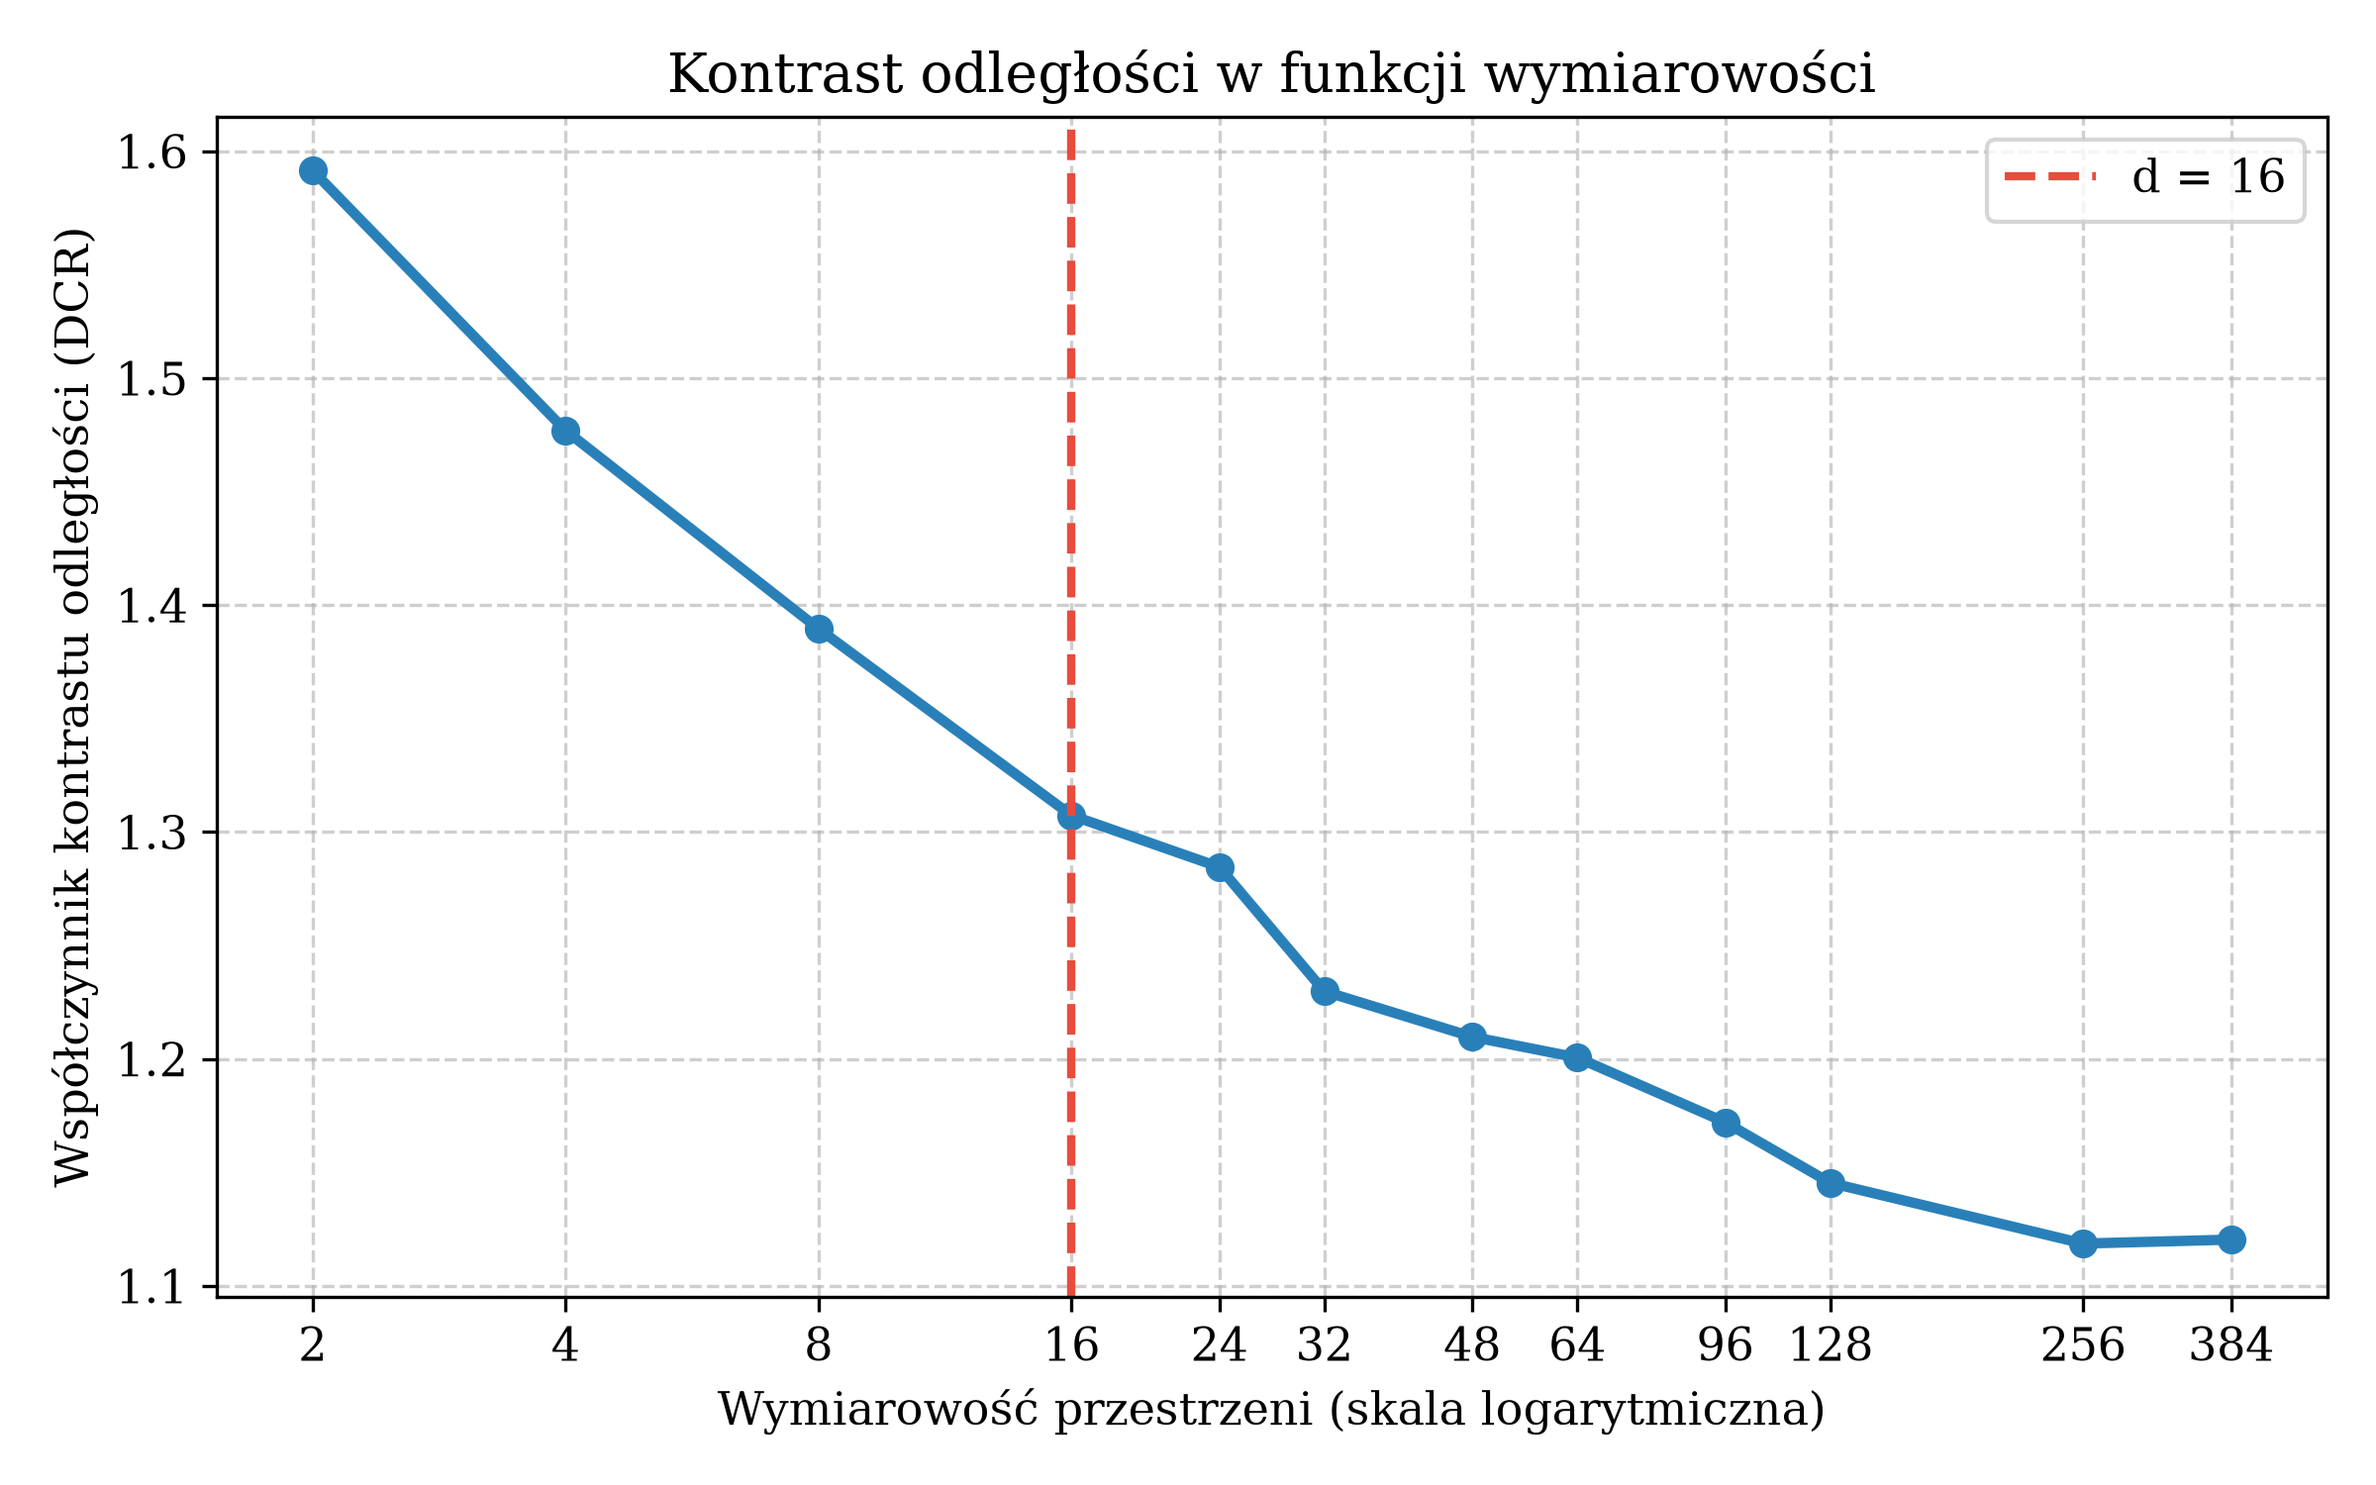
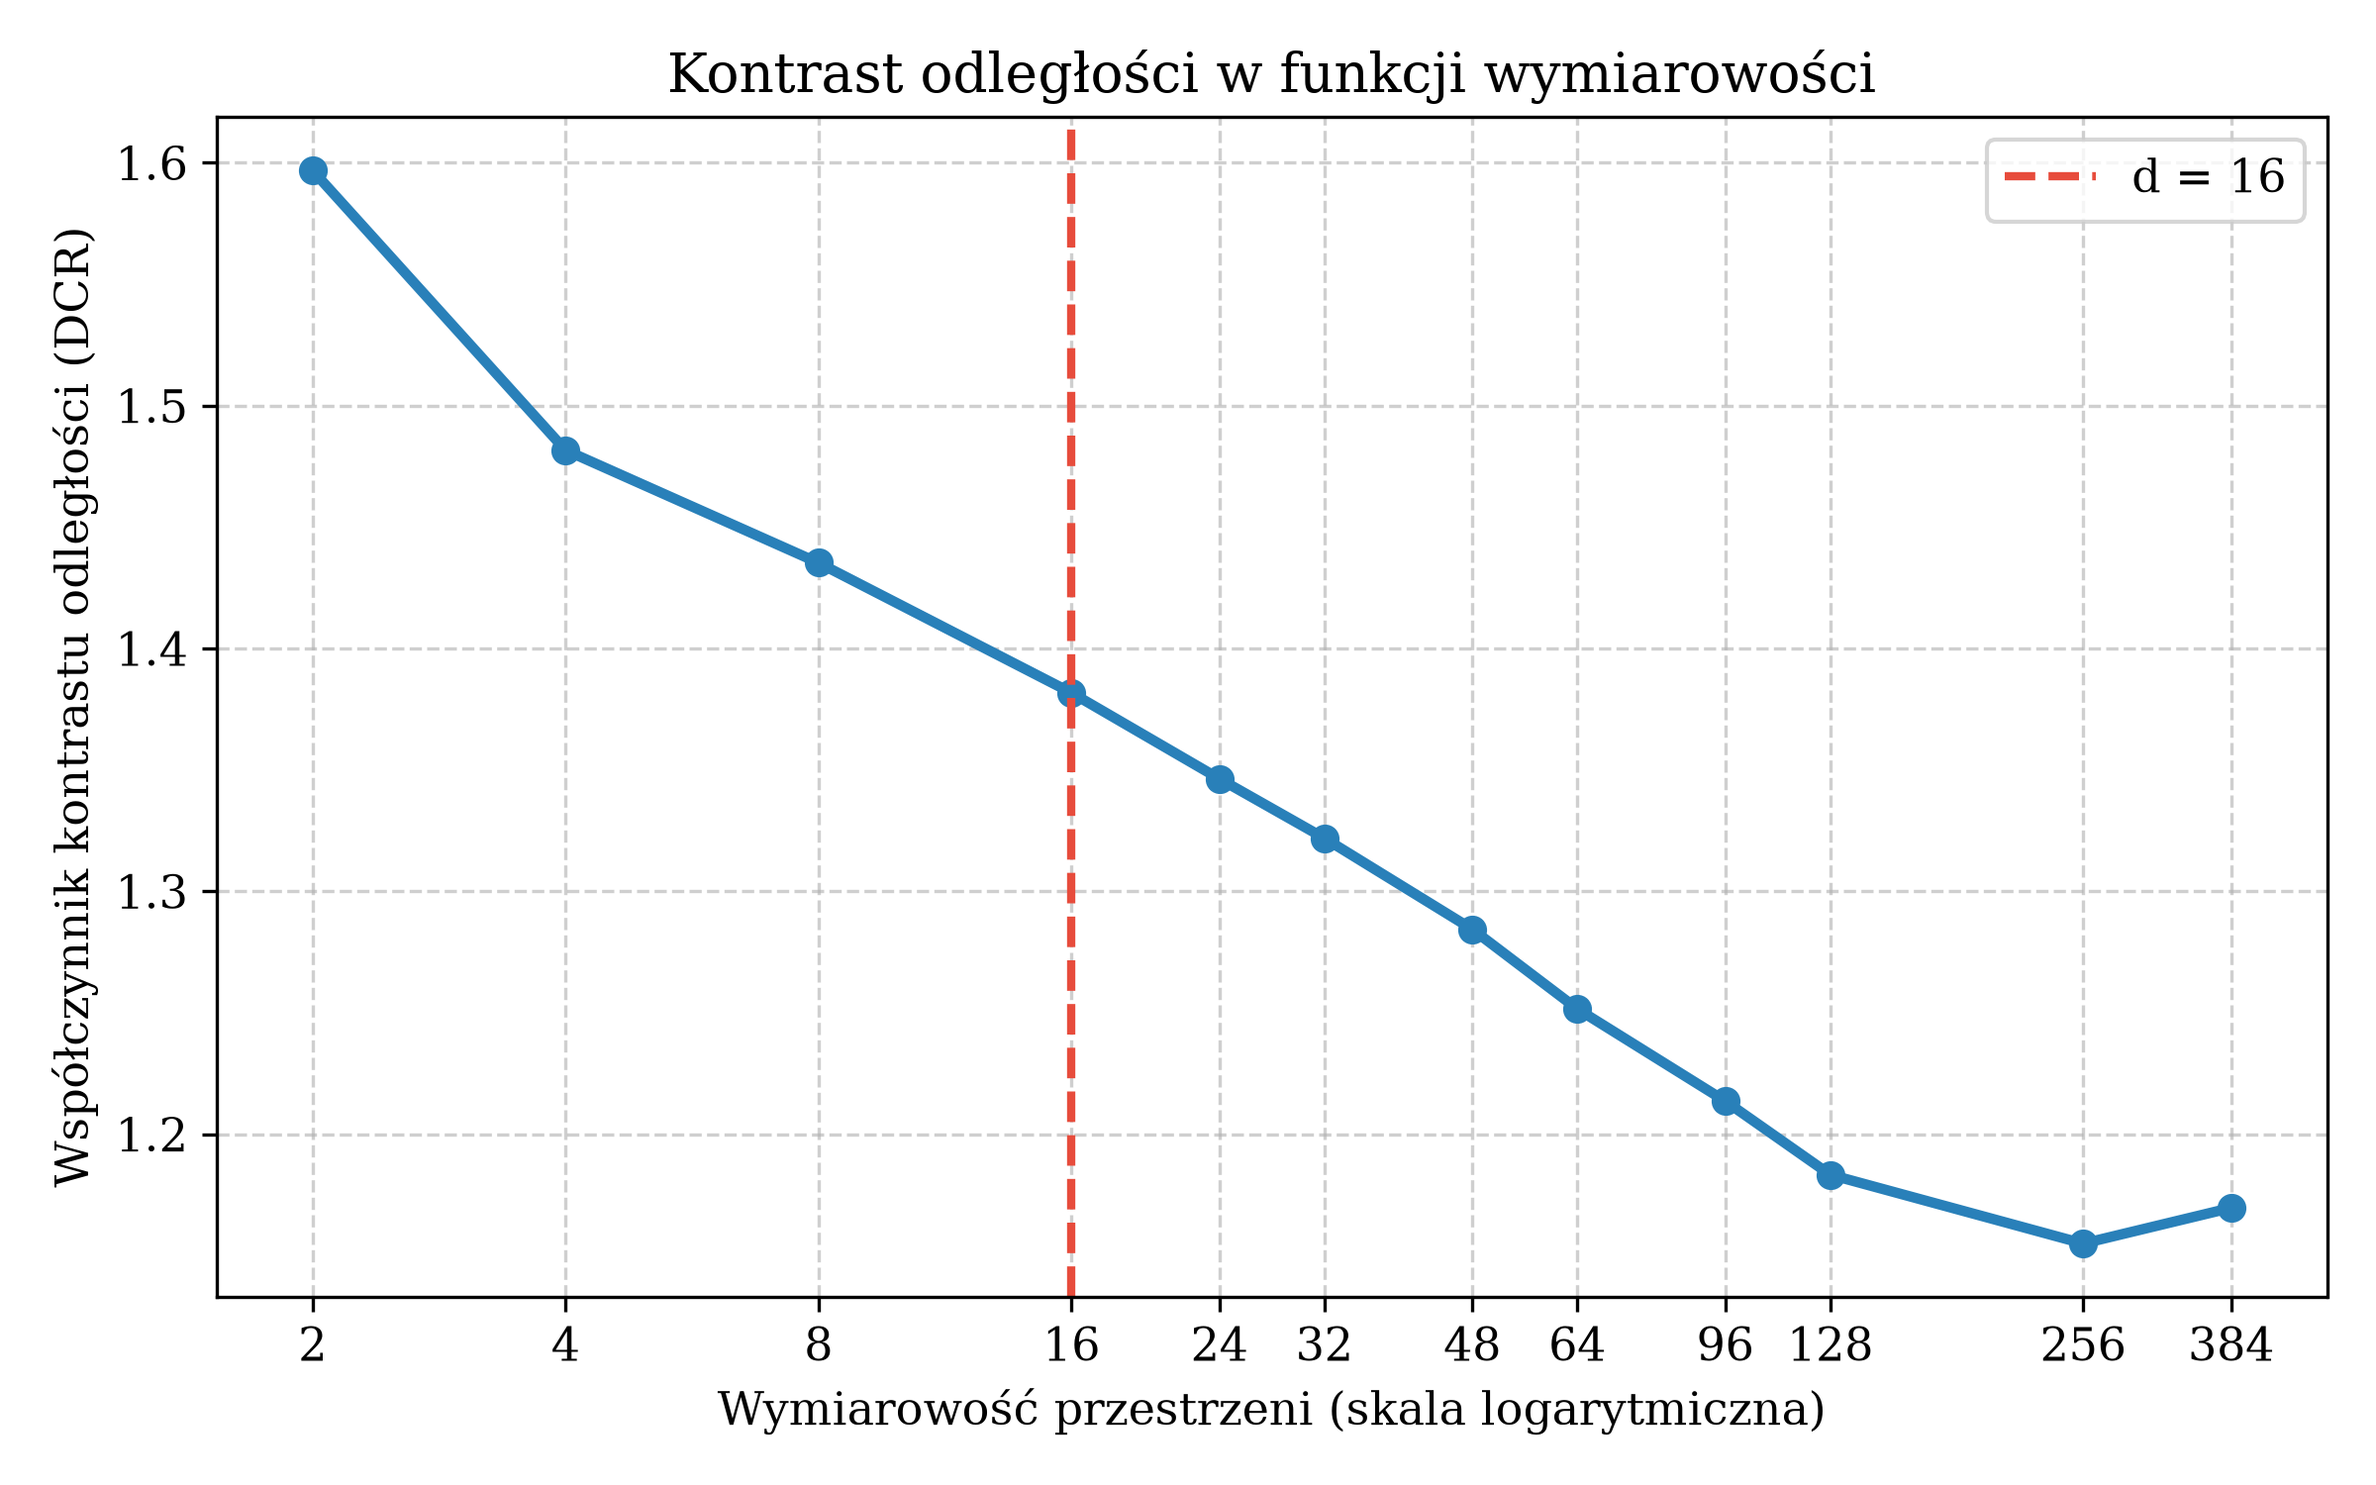
Set search-space bounds on a separate validation stream
- New validation stream built only from the 8 20 Newsgroups categories no
  thesis experiment uses (4 + 4, abrupt switch after 3000 documents).
- Epsilon and lambda bounds experiments rerun on it: epsilon bounds
  [0.05, 0.40] confirmed; lambda has no effect on quality (old
  micro-clusters are absorbed, not forgotten).
- Lambda figure replaced by purity over time for the extreme lambdas.
- Dimensionality analysis: DCR computed on all 5000 documents.
- Thesis text: sections 3.1, 3.3, 3.4, 3.5, 4.1.1 and 4.4 updated.

diff --git a/experiments/param_bounds/lambda/exp_lambda_bounds.py b/experiments/param_bounds/lambda/exp_lambda_bounds.py
@@ -8,14 +8,18 @@ receives no new points loses half its weight every 1 / lambda ticks, i.e.
 every stream_speed / lambda documents. The earlier version of this
 experiment used stream_speed = 1, a clock 100x faster than the system's.
 
-The thesis 2 stream (6 categories, abrupt switch to 6 new categories after
-5000 documents, d = 16, IPCA fitted on the first documents) is processed by
-a static clusterer - no drift detection or adaptation - for a grid of lambda
-values, on several stream orders. For each lambda it records:
+The validation stream (4 categories that no thesis experiment uses, abrupt
+switch to 4 other unused categories after 3000 documents, d = 16, IPCA
+fitted on the first documents; see
+experiments/param_bounds/common/validation_stream.py) is processed by a
+static clusterer - no drift detection or adaptation - for a grid of lambda
+values, on several stream orders. The bounds are therefore chosen on data
+completely separate from the data the theses are evaluated on. For each
+lambda it records:
   - clustering quality before the switch (does forgetting hurt a stable
     stream?) and after it (does it help the model let go of old topics?),
   - how many of the p-micro-clusters alive at the switch survive 500, 1000,
-    2500 and 5000 documents later.
+    2000 and 3000 documents later.
 """
 
 import argparse
@@ -29,29 +33,26 @@ import pandas as pd
 from sklearn.decomposition import IncrementalPCA
 from sklearn.preprocessing import normalize
 
-from experiments.theses.thesis_1.exp_thesis_1_ipca import STREAM_SEEDS, shuffle_stream
-from experiments.theses.thesis_2.exp_thesis_2_drift import (
-    BATCH_SIZE,
-    INITIAL_WARMUP_SIZE,
-    PHASE1_CATEGORIES,
-    SAMPLES_PER_PHASE,
-    _load_or_build_dataset,
-    _load_or_compute_embeddings,
+from experiments.param_bounds.common.validation_stream import (
+    VALIDATION_PHASE1_CATEGORIES,
+    VALIDATION_SAMPLES_PER_PHASE as SAMPLES_PER_PHASE,
+    load_validation_stream,
 )
+from experiments.theses.thesis_1.exp_thesis_1_ipca import STREAM_SEEDS, shuffle_stream
+from experiments.theses.thesis_2.exp_thesis_2_drift import BATCH_SIZE, INITIAL_WARMUP_SIZE
 from src.core.config import config
 from src.domain.clustering import StreamClusterer
 
 RESULTS_DIR = "experiments/param_bounds/lambda/results"
 PCA_DIM = 16
 LAMBDA_GRID = [0.001, 0.0025, 0.005, 0.01, 0.02, 0.04, 0.08, 0.16, 0.32, 0.64, 1.28]
-SURVIVAL_CHECKPOINTS = [500, 1000, 2500, 5000]  # documents after the topic switch
+SURVIVAL_CHECKPOINTS = [500, 1000, 2000, 3000]  # documents after the topic switch
 
 
 def load_drift_stream(seed: int):
-    """Both phases of the thesis 2 stream, each shuffled with the seed; the
+    """Both phases of the validation stream, each shuffled with the seed; the
     topic switch stays at document SAMPLES_PER_PHASE."""
-    texts, labels = _load_or_build_dataset()
-    embeddings = _load_or_compute_embeddings(texts)
+    embeddings, labels = load_validation_stream()
     parts = [
         shuffle_stream(embeddings[start : start + SAMPLES_PER_PHASE], labels[start : start + SAMPLES_PER_PHASE], seed)
         for start in (0, SAMPLES_PER_PHASE)
@@ -69,7 +70,7 @@ def run_one(seed: int, decay: float) -> Tuple[dict, pd.DataFrame]:
         decaying_factor=decay,
         n_samples_init=config.denstream.n_samples_init,
         window_size=config.denstream.window_size,
-        expected_macro_clusters=len(PHASE1_CATEGORIES),
+        expected_macro_clusters=len(VALIDATION_PHASE1_CATEGORIES),
     )
 
     records = []
@@ -140,20 +141,28 @@ def plot_quality(summary: pd.DataFrame, out_path: str):
     plt.close()
 
 
-def plot_survival(timeseries: pd.DataFrame, out_path: str):
+def plot_purity_over_time(timeseries: pd.DataFrame, out_path: str):
+    """Purity of the static model over the stream for the two most extreme
+    lambda values (mean over stream orders): the drop at the topic switch
+    and the lack of recovery, whatever the speed of forgetting."""
     plt.rcParams.update({"font.size": 11, "font.family": "serif"})
-    fig, ax = plt.subplots(figsize=(8, 5))
-    after = timeseries[timeseries["samples_seen"] > SAMPLES_PER_PHASE]
-    mean_curves = after.groupby(["decaying_factor", "samples_seen"])["old_micro_clusters_alive"].mean().reset_index()
-    for decay in LAMBDA_GRID:
-        curve = mean_curves[mean_curves["decaying_factor"] == decay]
-        ax.plot(curve["samples_seen"] - SAMPLES_PER_PHASE, curve["old_micro_clusters_alive"], lw=2, label=f"λ = {decay}")
-    ax.set_xlabel("Liczba dokumentów po zmianie tematów")
-    ax.set_ylabel("Odsetek zachowanych p-mikroklastrów sprzed zmiany")
-    ax.set_title("Zapominanie struktur po zmianie tematów")
-    ax.set_ylim(-0.05, 1.05)
+    fig, ax = plt.subplots(figsize=(8, 4.5))
+    extremes = [
+        (min(LAMBDA_GRID), "#2980b9", "-", 3.0),
+        (max(LAMBDA_GRID), "#e67e22", "--", 2.0),
+    ]
+    for decay, color, style, width in extremes:
+        curve = timeseries[timeseries["decaying_factor"] == decay].groupby("samples_seen")["purity"].mean()
+        half_life_docs = f"{round(100 / decay):,}".replace(",", " ")  # e.g. "100 000"
+        ax.plot(curve.index, curve.values, color=color, linestyle=style, lw=width,
+                label=f"λ = {str(decay).replace('.', ',')} (połowa wagi po {half_life_docs} dokumentach)")
+    ax.axvline(SAMPLES_PER_PHASE, color="black", linestyle=":", lw=2, label="Zmiana tematów")
+    ax.set_xlabel("Liczba przetworzonych dokumentów")
+    ax.set_ylabel("Czystość")
+    ax.set_ylim(0, 1)
+    ax.set_xlim(timeseries["samples_seen"].min(), timeseries["samples_seen"].max())
     ax.grid(True, linestyle="--", alpha=0.6)
-    ax.legend(loc="center left", bbox_to_anchor=(1.0, 0.5), fontsize=9)
+    ax.legend(loc="upper center", bbox_to_anchor=(0.5, -0.18), ncol=1, frameon=False)
     plt.savefig(out_path, dpi=300, bbox_inches="tight")
     plt.close()
 
@@ -179,7 +188,7 @@ def main():
     timeseries.to_csv(f"{RESULTS_DIR}/lambda_bounds_timeseries.csv", index=False)
     summary.to_csv(f"{RESULTS_DIR}/lambda_bounds_summary.csv", index=False)
     plot_quality(summary, f"{RESULTS_DIR}/lambda_bounds_quality.png")
-    plot_survival(timeseries, f"{RESULTS_DIR}/lambda_bounds_forgetting.png")
+    plot_purity_over_time(timeseries, f"{RESULTS_DIR}/lambda_bounds_purity_over_time.png")
 
     cols = ["decaying_factor", "half_life_docs_mean", "purity_before_switch_mean", "purity_before_switch_std",
             "purity_after_switch_mean", "purity_after_switch_std", "micro_clusters_mean"] + [f"old_alive_after_{d}_mean" for d in SURVIVAL_CHECKPOINTS]

diff --git a/experiments/param_bounds/common/validation_stream.py b/experiments/param_bounds/common/validation_stream.py
@@ -1,0 +1,56 @@
+"""
+Validation stream for choosing the NSGA-II search-space bounds (thesis
+section 3.4).
+
+It is built only from the eight 20 Newsgroups categories that no thesis
+experiment uses, so the bounds are chosen on data completely separate from
+the data the theses are evaluated on. Two groups of four categories form an
+abrupt topic change after VALIDATION_SAMPLES_PER_PHASE documents; the text
+cleaning, filtering, shuffling and SBERT encoding are exactly the same as
+for the thesis stream.
+"""
+
+import os
+import pickle
+from typing import List, Tuple
+
+import numpy as np
+
+from experiments.theses.thesis_2.exp_thesis_2_drift import create_dataset_stream
+from src.core.config import config
+
+VALIDATION_PHASE1_CATEGORIES = [
+    "comp.windows.x", "misc.forsale", "soc.religion.christian", "talk.politics.misc",
+]
+VALIDATION_PHASE2_CATEGORIES = [
+    "comp.os.ms-windows.misc", "comp.sys.mac.hardware", "alt.atheism", "talk.religion.misc",
+]
+VALIDATION_SAMPLES_PER_PHASE = 3000
+
+CACHE_DIR = "experiments/param_bounds/common"
+DATASET_CACHE_PATH = f"{CACHE_DIR}/validation_dataset.pkl"
+EMBEDDINGS_CACHE_PATH = f"{CACHE_DIR}/validation_embeddings.npy"
+
+
+def load_validation_stream() -> Tuple[np.ndarray, List[str]]:
+    """Both phases of the validation stream (SBERT embeddings and category
+    labels), cached after the first call."""
+    if os.path.exists(DATASET_CACHE_PATH):
+        with open(DATASET_CACHE_PATH, "rb") as f:
+            texts, labels = pickle.load(f)
+    else:
+        texts, labels = create_dataset_stream(
+            VALIDATION_PHASE1_CATEGORIES, VALIDATION_PHASE2_CATEGORIES, VALIDATION_SAMPLES_PER_PHASE
+        )
+        with open(DATASET_CACHE_PATH, "wb") as f:
+            pickle.dump((texts, labels), f)
+
+    if os.path.exists(EMBEDDINGS_CACHE_PATH):
+        embeddings = np.load(EMBEDDINGS_CACHE_PATH)
+    else:
+        from sentence_transformers import SentenceTransformer
+
+        encoder = SentenceTransformer(config.ml.embedding_model, device="cpu")
+        embeddings = encoder.encode(texts, batch_size=128, device="cpu", normalize_embeddings=True)
+        np.save(EMBEDDINGS_CACHE_PATH, embeddings)
+    return embeddings, labels

diff --git a/experiments/param_bounds/epsilon/exp_epsilon_bounds.py b/experiments/param_bounds/epsilon/exp_epsilon_bounds.py
@@ -1,14 +1,15 @@
 """
 Search-space bounds for the DenStream epsilon parameter (thesis section 3.4).
 
-Streams the thesis 1 document stream (the pre-drift phase of thesis 2:
-6 categories, 5000 documents, d = 16) through the full two-phase clusterer
-for a grid of epsilon values and records clustering quality and the number
-of p-micro-clusters. Every epsilon is run at both ends of the decaying-factor
-search range, so the chosen bounds hold whatever lambda NSGA-II picks, and
-on several stream orders to separate real effects from noise. Only pre-drift
-data is used, so the bounds are set without seeing the post-drift topics the
-thesis 2 adaptation is evaluated on.
+Streams the first phase of the validation stream (4 categories that no
+thesis experiment uses, 3000 documents, d = 16; see
+experiments/param_bounds/common/validation_stream.py) through the full
+two-phase clusterer for a grid of epsilon values and records clustering
+quality and the number of p-micro-clusters. The bounds are therefore chosen
+on data completely separate from the data the theses are evaluated on.
+Every epsilon is run at both ends of the decaying-factor search range, so the
+chosen bounds hold whatever lambda NSGA-II picks, and on several stream
+orders to separate real effects from noise.
 """
 
 import argparse
@@ -17,9 +18,12 @@ from concurrent.futures import ProcessPoolExecutor
 
 import pandas as pd
 
+from experiments.param_bounds.common.validation_stream import (
+    VALIDATION_SAMPLES_PER_PHASE,
+    load_validation_stream,
+)
 from experiments.theses.thesis_1.exp_thesis_1_ipca import (
     STREAM_SEEDS,
-    load_phase1_stream,
     run_streaming_simulation,
     shuffle_stream,
 )
@@ -32,7 +36,9 @@ DECAY_VALUES = list(config.evolution.param_bounds["decaying_factor"])
 
 
 def run_one(seed: int, decay: float, epsilon: float) -> dict:
-    _, embeddings, labels = load_phase1_stream()
+    embeddings, labels = load_validation_stream()
+    embeddings = embeddings[:VALIDATION_SAMPLES_PER_PHASE]
+    labels = labels[:VALIDATION_SAMPLES_PER_PHASE]
     df = run_streaming_simulation(
         *shuffle_stream(embeddings, labels, seed), PCA_DIM, epsilon, decaying_factor=decay
     )

diff --git a/experiments/dimensionality/exp_dimensionality.py b/experiments/dimensionality/exp_dimensionality.py
@@ -9,6 +9,8 @@ the same 5000-document stream as thesis 1 (the pre-drift phase of thesis 2):
     after projecting to d components and L2-normalising (as in the system);
     it drops as distances concentrate in high dimensions.
 
+All three are computed on the same 5000 documents.
+
 Standard PCA on the whole sample is used here (not IPCA) to obtain exact
 explained-variance values.
 """
@@ -28,8 +30,6 @@ from experiments.theses.thesis_1.exp_thesis_1_ipca import load_phase1_stream
 RESULTS_DIR = "experiments/dimensionality/results"
 DIMS = [2, 4, 8, 16, 24, 32, 48, 64, 96, 128, 256, 384]
 MARKED_DIM = 16
-DCR_SAMPLE_SIZE = 2000
-SEED = 42
 
 
 def intrinsic_dimension_mle(X: np.ndarray, k1: int = 10, k2: int = 20) -> float:
@@ -76,14 +76,13 @@ def main():
 
     pca = PCA(n_components=embeddings.shape[1]).fit(embeddings)
     cumulative_variance = np.cumsum(pca.explained_variance_ratio_)
-    sample = np.random.default_rng(SEED).choice(len(embeddings), DCR_SAMPLE_SIZE, replace=False)
 
     rows = []
     for d in DIMS:
         if d == embeddings.shape[1]:
-            projected = embeddings[sample]
+            projected = embeddings
         else:
-            projected = normalize(pca.transform(embeddings[sample])[:, :d])
+            projected = normalize(pca.transform(embeddings)[:, :d])
         rows.append(
             {
                 "d": d,
